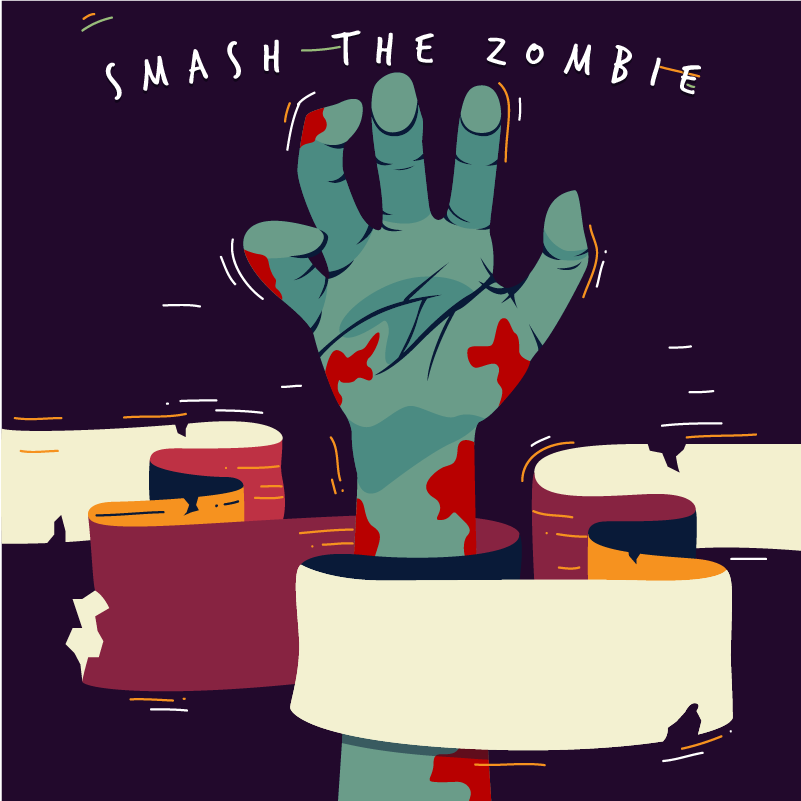
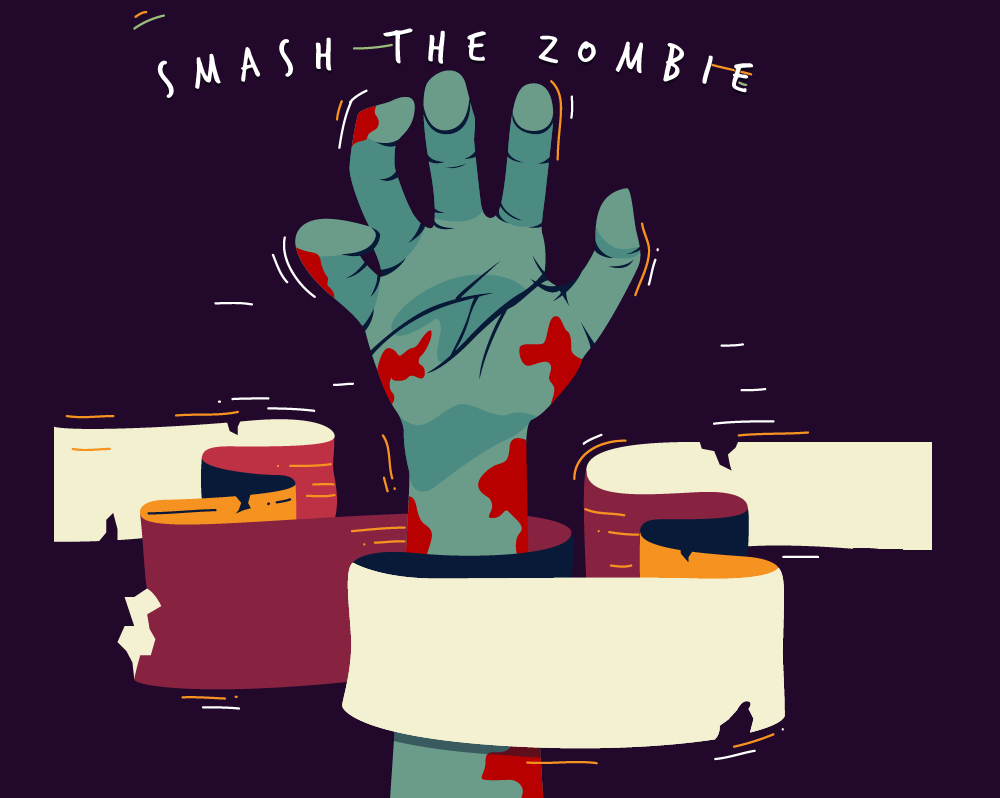
add animation for zombie

diff --git a/main.py b/main.py
@@ -4,6 +4,7 @@ import math
 import random
 import os
 from dataclasses import dataclass
+from Zombie import *
 
 
 WHITE = (255, 255, 255)
@@ -15,7 +16,7 @@ ORANGE = (240, 89, 65)
 RED = (184, 0, 0)
 GREY =  ( 77, 63, 90)
 
-SCREEN_WIDTH = 800
+SCREEN_WIDTH = 1000
 SCREEN_HEIGHT = 800
 FPS = 60
 TEXT = "Smash The Zombie"
@@ -94,11 +95,8 @@ class Game: # this is the main game class
         self.states = {'intro': self.intro, 'menu': self.menu, 'game_play': self.game_play, 'game_over': self.game_over}
 
     def run(self):
-        
         while True:
-
             self.states[self.game_state_manager.getState()].run() # evoke run() function in class
-
             pygame.display.update()
             self.clock.tick(FPS)
 
@@ -127,8 +125,9 @@ class Intro:
                     pygame.quit()
                     sys.exit()
                     
-
-        if any(pygame.key.get_pressed()) or any(pygame.mouse.get_pressed()):
+        keys_pressed = pygame.key.get_pressed()
+        mouses_pressed = pygame.mouse.get_pressed()
+        if any(keys_pressed) or any(mouses_pressed):
             self.game_state_manager.setState('menu') #switch screen
             sound_effects.mainTrack.play(-1)
 
@@ -189,20 +188,20 @@ class Menu:
 
         self.display.blit(image.menu, (0, 0))
 
-        self.display.blit(self.text_play, (438,597))
-        self.display.blit(self.text_game, (425, 660))
+        self.display.blit(self.text_play, (490,597))
+        self.display.blit(self.text_game, (457, 660))
 
-        self.display.blit(self.text_how, (155, 558))
-        self.display.blit(self.text_to_play, (116, 608))
+        self.display.blit(self.text_how, (207, 558))
+        self.display.blit(self.text_to_play, (168, 608))
 
-        self.display.blit(self.text_quit, (31, 467))
-        self.display.blit(self.text_high_score, (580, 456))
+        self.display.blit(self.text_quit, (83, 467))
+        self.display.blit(self.text_high_score, (632, 456))
             
         mouse_x, mouse_y = pygame.mouse.get_pos()
         keys = pygame.mouse.get_pressed()
 
-        if (mouse_x >= 297) and (mouse_x <= 730) and (mouse_y >= 577) and (mouse_y <= 746):
-            self.display.blit(image.play_game_button, (289, 564))
+        if (mouse_x >= 249) and (mouse_x <= 782) and (mouse_y >= 577) and (mouse_y <= 746):
+            self.display.blit(image.play_game_button, (341, 564))
             if keys[0]:
                 self.game_state_manager.setState('game_play')
 
@@ -235,15 +234,8 @@ class HowToPlay:
     def __init__(self) -> None:
         pass
 
-    
 class GamePlay:
-    class Zombie:
-        def __init__(self, x, y, life, time_of_birth):
-            self.x = x
-            self.y = y
-            self.life = life
-            self.time_of_birth = time_of_birth
-
+ 
     def __init__(self, display, game_state_manager):
         self.display = display # similar to screen variable
         self.game_state_manager = game_state_manager
@@ -260,7 +252,6 @@ class GamePlay:
         self.font_sub = pygame.font.SysFont('trashhand', 40)
 
         self.score_value = 0
-        self.smash_times = 0
 
         self.zombies= [] #init a list to store current zombies on the screen
         
@@ -270,24 +261,26 @@ class GamePlay:
         self.APPEAR_INTERVAL = 2 * 1000
 
         self.zombies_position = [(142, 125), (405, 125), (659, 125), (142, 372), (405, 372), (659, 372), (142, 620), (405, 620), (659, 620)] # init a list to store position of zombie
+        for pos in self.zombies_position:
+            self.zombies += [Zombie(pos[0], pos[1], self.display)]
 
         pygame.time.set_timer(self.GENERATE_ZOMBIE, self.APPEAR_INTERVAL)
         pygame.time.set_timer(pygame.USEREVENT, 1000)
 
-    def checkExist(self, pos): # if position equal with current zombie appear on the screen return true
-        for zombie in self.zombies:
-            if pos == (zombie.x, zombie.y):
-                return True
-        return False
 
     def generateNextEnemyPos(self):
         new_pos = () # init an empty tuple
         while True:
             grid_index = random.randint(0, self.NUM_ROW * self.NUM_COL - 1) # random a number from 0 to 8
-            new_pos = self.zombies_position[grid_index]
-            if not self.checkExist(new_pos):
-                break
-        return new_pos, pygame.time.get_ticks()  #return position that able to generate new zombie and time
+            print(11111111111111)
+            print(grid_index)
+            print(len(self.zombies))
+            print(11111111111111)            
+            while self.zombies[grid_index].state != ZombieState.NONE:
+                grid_index = random.randint(0, self.NUM_ROW * self.NUM_COL - 1) 
+            self.zombies[grid_index].change_state(ZombieState.GO_UP) 
+            return
+        # return new_pos, pygame.time.get_ticks()  #return position that able to generate new zombie and time
     
     def drawZombies(self):
         for zombie in self.zombies:
@@ -304,11 +297,9 @@ class GamePlay:
     def checkZombiesCollision(self, click_pos):
         for zombie in self.zombies:
             if self.checkCollision(click_pos[0], click_pos[1], zombie.x, zombie.y):
-                self.score_value
                 self.score_value += 1
                 self.zombies.remove(zombie)
-
-                sound_effects.playLevelUp()
+                sound_effects.playHurt()
 
     def timerZombie(self):
         for zombie in self.zombies:
@@ -327,38 +318,100 @@ class GamePlay:
         self.display.blit(time, text_rect)
 
     def run(self):
-        for event in pygame.event.get():
+        eventList = pygame.event.get()
+        for event in eventList:
             if event.type == pygame.QUIT:
                 pygame.quit()
                 sys.exit()
 
             if event.type == pygame.MOUSEBUTTONDOWN: # mouse click
-                click_pos = pygame.mouse.get_pos()
-                self.checkZombiesCollision(click_pos)
+                sound_effects.playHurt()
+                self.score_value += 1
 
             if event.type == self.GENERATE_ZOMBIE:
-                if len(self.zombies) < self.NUM_COL * self.NUM_ROW:
-                    new_pos, time_of_birth = self.generateNextEnemyPos()
-                    self.zombies.append(self.Zombie(x=new_pos[0], y=new_pos[1], life=self.ZOMBIE_LIFE_SPANS, time_of_birth=time_of_birth))
+                # if len(self.zombies) < self.NUM_COL * self.NUM_ROW:
+                self.generateNextEnemyPos()
+                    # self.zombies.append(self.Zombie(x=new_pos[0], y=new_pos[1], life=self.ZOMBIE_LIFE_SPANS, time_of_birth=time_of_birth))
 
             if event.type == pygame.USEREVENT: # Timer
                 self.TIMER -= 1
                 if self.TIMER == 0:
                     self.game_state_manager.setState('game_over')
 
+        if self.TIMER > 0:
+            # Custom cursor
+            pygame.mouse.set_visible(False) # make cursor invisible
+            self.cursor_img_rect.center = pygame.mouse.get_pos()
+            self.display.blit(self.cursor_img, self.cursor_img_rect)
+            
+
+            for zombie in self.zombies:
+                if zombie.state == ZombieState.GO_UP:
+                    zombie.go_up()
+                if zombie.state == ZombieState.IS_SLAMED:
+                    zombie.fade()
+                if zombie.state == ZombieState.NEED_SLAM:
+                    if zombie.is_slamed(eventList):
+                        pygame.mixer.Sound.playHurt()
+                        score += 1
+                        zombie.change_state(ZombieState.IS_SLAMED)
+                    elif zombie.need_go_down():
+                        zombie.change_state(ZombieState.GO_DOWN)
+                if zombie.state == ZombieState.GO_DOWN:
+                    zombie.go_down()       
+                if zombie.state != ZombieState.NONE:
+                    zombie.draw()
+            
+            # Text UI
+            
+            # smash_time_text = font_score.render(f'Smash time: {smash_time}', True, (0,0, 0))
+            # screen.blit(smash_time_text, (320, 10))
+            
+            # time_text = font_score.render(f'Time left: {time}', True, (0,0, 0))
+            # screen.blit(time_text, (700, 10))
+            
+            # screen.blit(cursor_img, cursor_img_rect)
+            
+            
+            pygame.display.flip()  
+        else:
+            # Clear all zombies
+            for zombie in self.zombies:
+                zombie.reset()
+            # End game
+            self.display.fill((132, 237, 162))
+            self.displayScore()
+            
+            # Draw button
+            button = pygame.Rect(350, 300, 200, 50)
+            pygame.draw.rect(self.display, (16, 152, 104), button)
+            button_text = self.font_main.render('Play again', True, (255, 255, 255))
+            self.display.blit(button_text, (380, 310))
+            
+            # Enable cursor
+            pygame.mouse.set_visible(True)
+            
+            # Click Restart button
+            # if button.collidepoint(pygame.mouse.get_pos()):
+            #     if pygame.mouse.get_pressed()[0]:
+            #         time = 5
+            #         score = 0
+            #         smash_time = 0
+        
+            pygame.display.flip() # Update screen
+            
+
         self.display.blit(image.gameplay_background, (0, 0))
         image.setting_icon = pygame.transform.scale(image.setting_icon, (35, 37))
         self.display.blit(image.setting_icon, (25, 25))
 
-        self.timerZombie()
-        self.drawZombies()
+        # self.timerZombie()
+        # self.drawZombies()
         self.displayScore()
         self.displayTime()
 
         # cursor customize
-        pygame.mouse.set_visible(False) # make cursor invisible
-        self.cursor_img_rect.center = pygame.mouse.get_pos()
-        self.display.blit(self.cursor_img, self.cursor_img_rect)
+        
 
         
 class GameOver:

diff --git a/Zombie.py b/Zombie.py
@@ -1,0 +1,84 @@
+import pygame
+import os
+from enum import Enum
+    
+ZOMBIE_WIDTH = 100
+ZOMBIE_HEIGHT = 100
+DEFAULT_ALPHA = 255
+MAX_TIME_LAST = 30
+HOLE_WIDTH = 200
+HOLE_HEIGHT = 100
+ZOMBIE_MAX_HEIGHT = 100
+
+class ZombieState(Enum):
+    GO_UP = 0
+    NEED_SLAM = 1
+    IS_SLAMED = 2
+    GO_DOWN = 3
+    NONE = 4
+class Zombie:
+    def __init__(self, x, y, screen):
+        self.state = ZombieState.NONE
+        self.x = x
+        self.y = y
+        self.screen = screen
+        self.y_rise = ZOMBIE_MAX_HEIGHT
+        self.alpha = DEFAULT_ALPHA
+        self.time_last = MAX_TIME_LAST
+    
+    def reset(self):
+        self.state = ZombieState.NONE
+        self.y_rise = ZOMBIE_MAX_HEIGHT
+        self.alpha = DEFAULT_ALPHA
+        self.time_last = MAX_TIME_LAST
+    
+    def is_slamed(self, eventlist):
+        if self.state != ZombieState.NEED_SLAM:
+            return False 
+        for event in eventlist:
+            if event.type == pygame.MOUSEBUTTONUP:
+                pos = pygame.mouse.get_pos()
+                if self.x <= pos[0] and pos[0] <= self.x + ZOMBIE_WIDTH and self.y <= pos[1] and pos[1] <= self.y + ZOMBIE_HEIGHT:
+                    return True
+        return False 
+    
+    def change_state(self, new_state):
+        self.state = new_state
+        
+    def draw(self):
+        surface = pygame.Surface((100, 100))
+        zombie = pygame.image.load(os.path.join(os.path.dirname(os.path.abspath('Zombie.py')), "Assets/ZOMBIE.png" if self.state != ZombieState.IS_SLAMED else "Assets/zombie_stun.png"))
+        zombie = pygame.transform.scale(zombie, (ZOMBIE_WIDTH,ZOMBIE_HEIGHT))   
+        zombie_sur = zombie.convert_alpha()
+        zombie_sur.set_alpha(self.alpha)  
+        surface.fill((255,255,255))
+        surface.set_colorkey((255,255,255))
+        surface.blit(zombie_sur, (0, self.y_rise))
+        self.screen.blit(surface, (self.x, self.y))
+        
+    def go_up(self):
+        if self.y_rise == 0:
+            self.state = ZombieState.NEED_SLAM
+            return
+        self.y_rise -= 20 
+    
+    def need_go_down(self):
+        if self.time_last == 0:
+            self.time_last = MAX_TIME_LAST
+            return True
+        self.time_last -= 1
+    
+    def go_down(self):
+        if self.y_rise == ZOMBIE_MAX_HEIGHT:
+            self.state = ZombieState.NONE
+            return
+        self.y_rise += 5 
+            
+    def fade(self): 
+        if self.alpha == 0:
+            self.y_rise = ZOMBIE_MAX_HEIGHT
+            self.state = ZombieState.NONE
+            self.alpha = DEFAULT_ALPHA
+            return 
+        self.alpha -= 51    
+        
